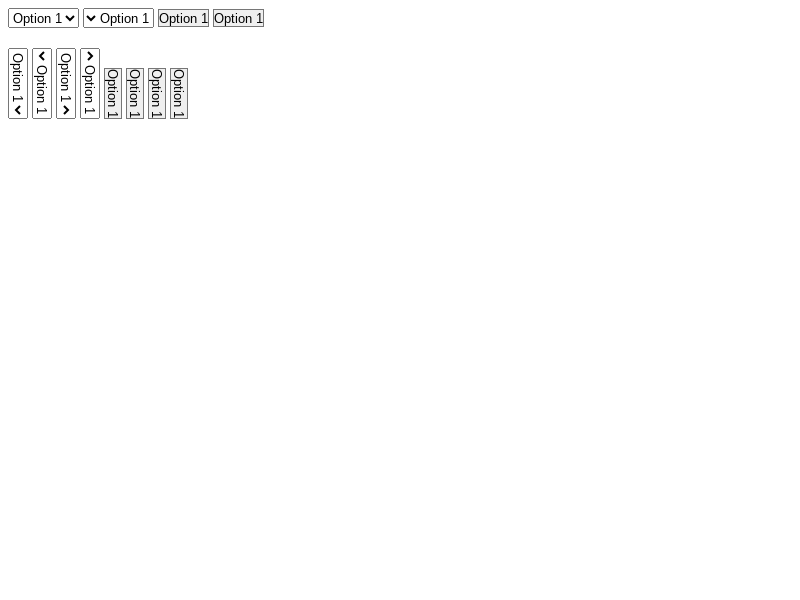
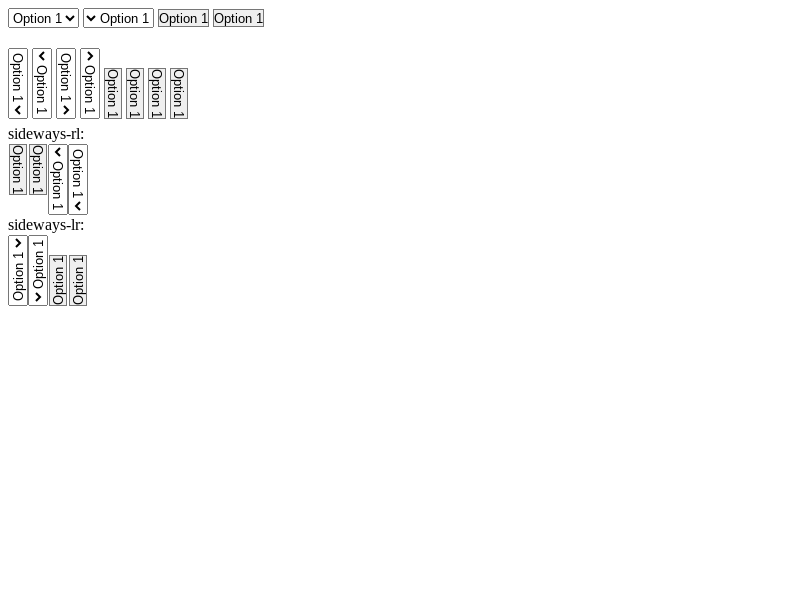
sideways: Fix drop-down select rendering
Bug: 40501131
Commit-Queue: Di Zhang <dizhangg@chromium.org>
Auto-Submit: Kent Tamura <tkent@chromium.org>
Cr-Commit-Position: refs/heads/main@{#1332955}

Changed region(s): [[0.0, 0.21, 0.125, 0.51]]

diff --git a/web_tests/fast/forms/select/select-appearance.html b/web_tests/fast/forms/select/select-appearance.html
@@ -1,6 +1,10 @@
 <!DOCTYPE html>
-<meta name=fuzzy content="maxDifference=0-3; totalPixels=0-100">
 <html>
+<meta name=fuzzy content="maxDifference=0-3; totalPixels=0-100">
+<style>
+.rtl { direction: rtl; }
+.no-appearance { appearance: none; }
+</style>
 <body>
 
 <select></select>
@@ -16,6 +20,24 @@
 <select style="writing-mode: vertical-rl; direction: rtl; appearance: none;"></select>
 <select style="writing-mode: vertical-lr; direction: ltr; appearance: none;"></select>
 <select style="writing-mode: vertical-lr; direction: rtl; appearance: none;"></select>
+
+<br>
+sideways-rl:
+<div style="writing-mode: sideways-rl">
+<select></select><br>
+<select class="rtl"></select><br>
+<select class="no-appearance"></select><br>
+<select class="rtl no-appearance"></select>
+</div>
+
+sideways-lr:
+<div style="writing-mode: sideways-lr">
+<select></select><br>
+<select class="rtl"></select><br>
+<select class="no-appearance"></select><br>
+<select class="rtl no-appearance"></select>
+</div>
+
 <script>
 const selects = document.getElementsByTagName('select');
 for(var s=0; s<selects.length; s++){

diff --git a/renderer/core/paint/theme_painter_default.cc b/renderer/core/paint/theme_painter_default.cc
@@ -498,7 +498,9 @@ void ThemePainterDefault::SetupMenuListArrow(
     WebThemeEngine::ExtraParams& extra_params) {
   auto& menu_list =
       absl::get<WebThemeEngine::MenuListExtraParams>(extra_params);
-  if (IsHorizontalWritingMode(style.GetWritingMode())) {
+  WritingDirectionMode writing_direction = style.GetWritingDirection();
+  PhysicalDirection block_end = writing_direction.BlockEnd();
+  if (block_end == PhysicalDirection::kDown) {
     menu_list.arrow_direction = WebThemeEngine::ArrowDirection::kDown;
     const int left = rect.x() + floorf(style.BorderLeftWidth());
     const int right =
@@ -513,13 +515,14 @@ void ThemePainterDefault::SetupMenuListArrow(
     // TODO(tkent): This should be 7.0 to match scroll bar buttons.
     float arrow_size = 8.0 * arrow_scale_factor;
     // Put the arrow at the center of paddingForArrow area.
-    // |arrowX| is the left position for Aura theme engine.
-    menu_list.arrow_x = (style.Direction() == TextDirection::kRtl)
-                            ? left + (arrow_box_width - arrow_size) / 2
-                            : right - (arrow_box_width + arrow_size) / 2;
+    // |arrow_x| is the left position for Aura theme engine.
+    menu_list.arrow_x =
+        (writing_direction.InlineEnd() == PhysicalDirection::kLeft)
+            ? left + (arrow_box_width - arrow_size) / 2
+            : right - (arrow_box_width + arrow_size) / 2;
     menu_list.arrow_size = arrow_size;
   } else {
-    if (style.GetWritingMode() == WritingMode::kVerticalLr) {
+    if (block_end == PhysicalDirection::kRight) {
       menu_list.arrow_direction = WebThemeEngine::ArrowDirection::kRight;
     } else {
       menu_list.arrow_direction = WebThemeEngine::ArrowDirection::kLeft;
@@ -536,10 +539,11 @@ void ThemePainterDefault::SetupMenuListArrow(
     // TODO(tkent): This should be 7.0 to match scroll bar buttons.
     float arrow_size = 8.0 * arrow_scale_factor;
     // Put the arrow at the center of paddingForArrow area.
-    // |arrowY| is the bottom position for Aura theme engine.
-    menu_list.arrow_y = (style.Direction() == TextDirection::kRtl)
-                            ? bottom + (arrow_box_height - arrow_size) / 2
-                            : top - (arrow_box_height + arrow_size) / 2;
+    // |arrow_y| is the bottom position for Aura theme engine.
+    menu_list.arrow_y =
+        (writing_direction.InlineEnd() == PhysicalDirection::kUp)
+            ? bottom + (arrow_box_height - arrow_size) / 2
+            : top - (arrow_box_height + arrow_size) / 2;
     menu_list.arrow_size = arrow_size;
   }
 
